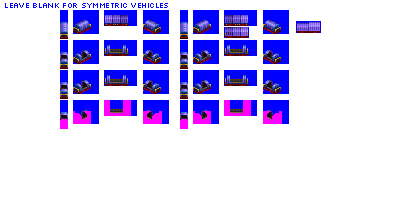
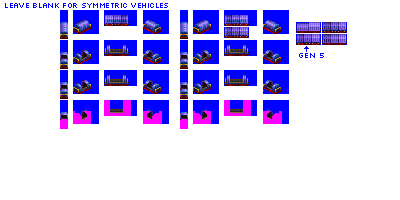
Change: more WIP on asymmetric covered coil carriers

Changed region(s): [[0.72, 0.09, 0.87, 0.3], [0.54, 0.06, 0.63, 0.18], [0.24, 0.06, 0.33, 0.15]]

diff --git a/src/train.py b/src/train.py
@@ -3166,7 +3166,8 @@ class CoilCarCoveredAsymmetricConsist(CoilCarConsistBase):
         self.use_named_buyable_variant_group = "wagon_group_coil_cars"
         self._joker = True
         # Graphics configuration
-        weathered_variants = {"unweathered": graphics_constants.body_recolour_CC1}
+        weathered_variants = {"unweathered": graphics_constants.covered_coil_car_asymmetric_body_recolour_map,
+                              "weathered": graphics_constants.covered_coil_car_asymmetric_body_recolour_map_weathered}
         self.gestalt_graphics = GestaltGraphicsVisibleCargo(
             weathered_variants=weathered_variants,
             liveries=[
@@ -3177,7 +3178,7 @@ class CoilCarCoveredAsymmetricConsist(CoilCarConsistBase):
                     "RANDOM_FROM_CONSIST_LIVERIES_2"
                 ],
                 global_constants.freight_wagon_liveries[
-                    "RANDOM_FROM_CONSIST_LIVERIES_3"
+                    "RANDOM_FROM_CONSIST_LIVERIES_7"
                 ],
                 global_constants.freight_wagon_liveries[
                     "COMPANY_COLOUR_USE_WEATHERING"
@@ -3185,8 +3186,8 @@ class CoilCarCoveredAsymmetricConsist(CoilCarConsistBase):
                 global_constants.freight_wagon_liveries[
                     "COMPLEMENT_COMPANY_COLOUR_USE_WEATHERING"
                 ],
+                global_constants.freight_wagon_liveries["FREIGHT_RUBY"],
                 global_constants.freight_wagon_liveries["FREIGHT_BAUXITE"],
-                global_constants.freight_wagon_liveries["FREIGHT_GREY"],
             ],
             piece="coil",
             has_cover=True,

diff --git a/src/vehicles/coil_cars_covered_asymmetric.py b/src/vehicles/coil_cars_covered_asymmetric.py
@@ -25,24 +25,23 @@ def main():
     )
 
     consist.add_unit(type=CoilCarAsymmetric, chassis="4_axle_filled_32px")
-    """
+
     consist = CoilCarCoveredAsymmetricConsist(
         roster_id="pony",
-        base_numeric_id=12570,
+        base_numeric_id=13430,
         gen=5,
         subtype="B",
-        sprites_complete=True,
+        sprites_complete=False,
     )
 
     consist.add_unit(type=CoilCarAsymmetric, chassis="4_axle_1cc_filled_24px")
 
     consist = CoilCarCoveredAsymmetricConsist(
         roster_id="pony",
-        base_numeric_id=12580,
+        base_numeric_id=15730,
         gen=5,
         subtype="C",
-        sprites_complete=True,
+        sprites_complete=False,
     )
 
     consist.add_unit(type=CoilCarAsymmetric, chassis="4_axle_1cc_filled_32px")
-    """

diff --git a/src/gestalt_graphics/graphics_constants.py b/src/gestalt_graphics/graphics_constants.py
@@ -261,6 +261,26 @@ chemical_covered_hopper_car_livery_recolour_maps_weathered = {
     142: 30,
     143: 168,
 }
+covered_coil_car_asymmetric_body_recolour_map = {
+    136: 5,
+    137: 6,
+    138: 7,
+    139: 20,
+    140: 21,
+    141: 22,
+    142: 23,
+    143: 14,
+}
+covered_coil_car_asymmetric_body_recolour_map_weathered = {
+    136: 33,
+    137: 34,
+    138: 7,
+    139: 36,
+    140: 21,
+    141: 22,
+    142: 23,
+    143: 39,
+}
 v_barrel_silo_car_livery_recolour_maps = {
     136: CC1,
     137: CC1 + 1,
